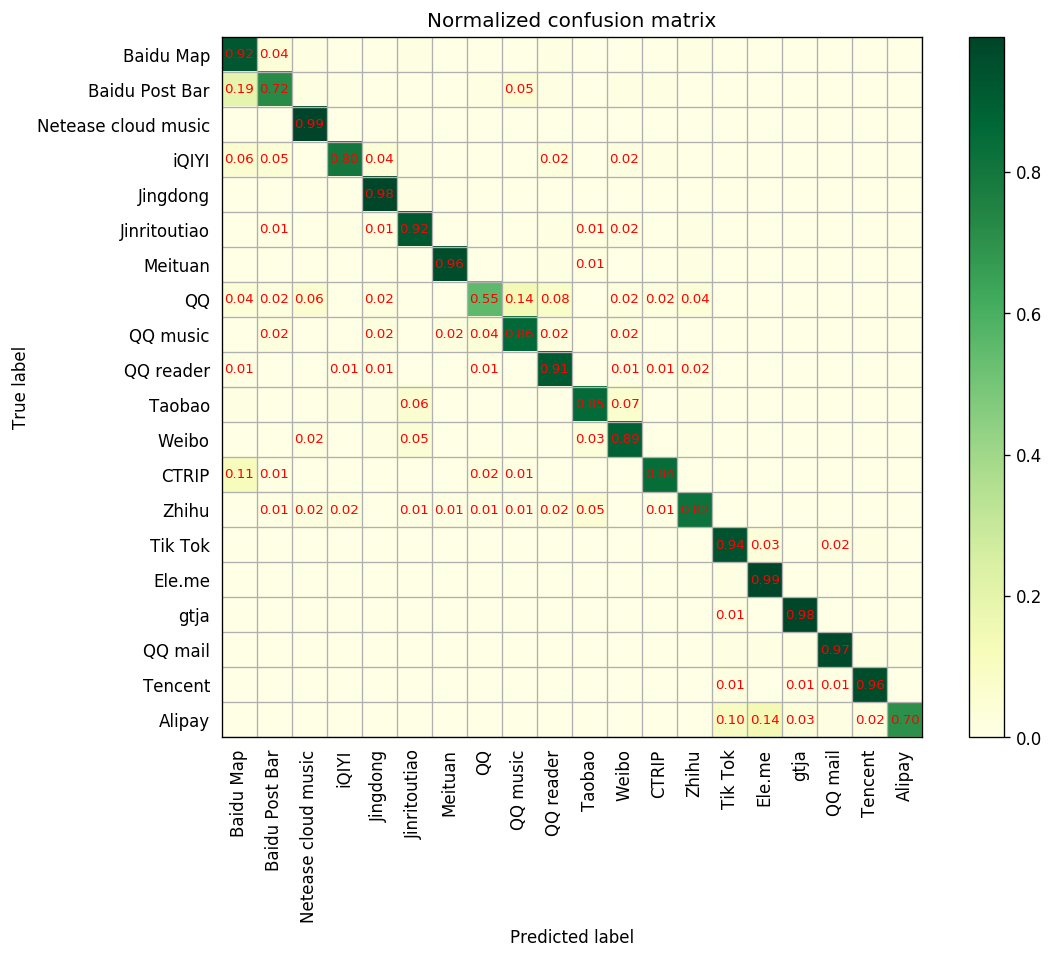
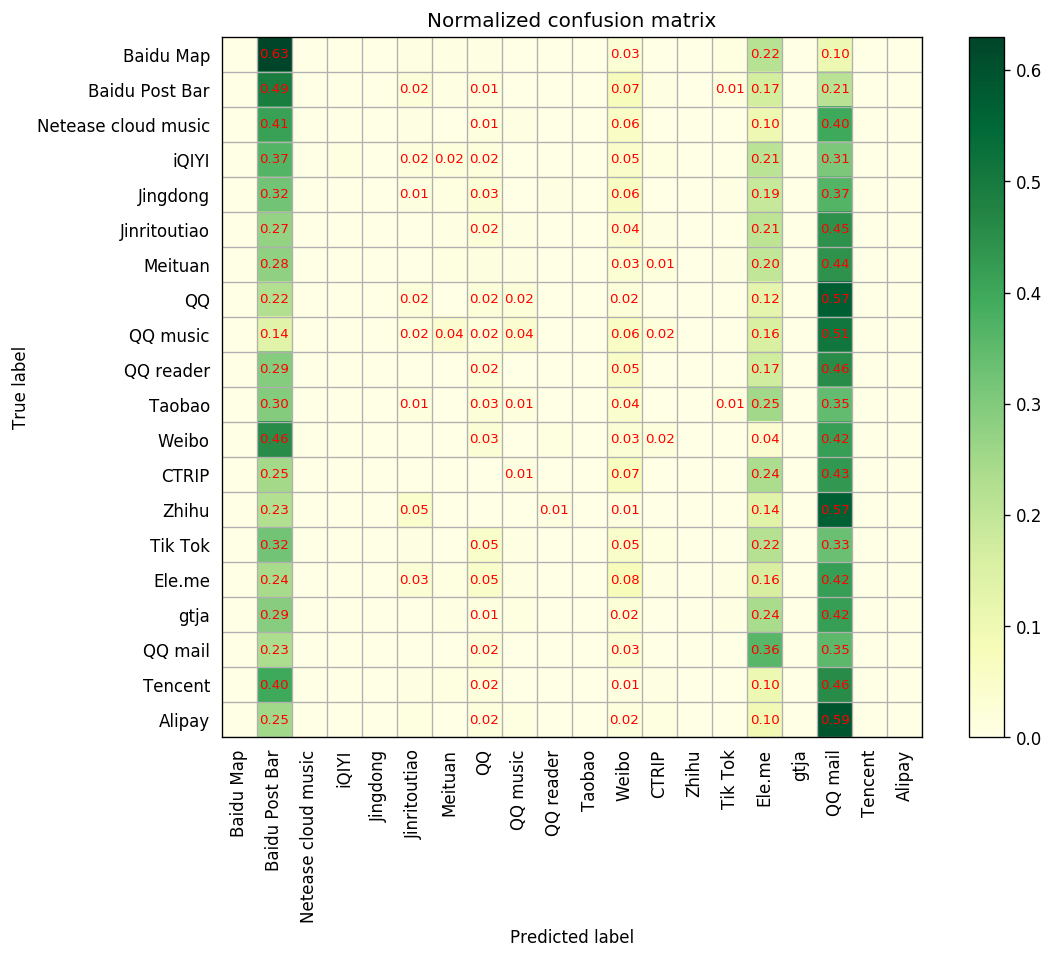
添加新的dense,修改长度为16,便于直观解释

diff --git a/wide_cnn_rnn/AIBMF_weight.py b/wide_cnn_rnn/AIBMF_weight.py
@@ -11,6 +11,8 @@ import tensorflow as tf
 from result import figures
 from sklearn.metrics import precision_score,recall_score,f1_score,accuracy_score
 import sys
+import numpy as np
+np.random.seed(2019)
 # 打印log
 tf.logging.set_verbosity(tf.logging.INFO)
 config = tf.ConfigProto(gpu_options=tf.GPUOptions(per_process_gpu_memory_fraction=0.5))
@@ -111,12 +113,15 @@ def model_fn(features, labels, mode, params):
     net1 = tf.contrib.layers.flatten(net1)
     net1 = tf.layers.dense(inputs=net1, name='layer_fc1',
                           units=64, activation=tf.nn.relu)
+    net1 = tf.layers.dense(inputs=net1, name="payload",units=16)
 
     x2 = features["recordTypes"]
     net2 = tf.reshape(x2,[-1,pkt_counts])
     # Embedding
     word_embeddings = tf.get_variable("word_embeddings",[257, 32])
     net2 = tf.nn.embedding_lookup(word_embeddings, net2)
+
+    # https://www.cnblogs.com/zyly/p/9029591.html
     # # Rnn
     # rnn_cell=tf.nn.rnn_cell.BasicRNNCell(16)
     # output, states = tf.nn.dynamic_rnn(rnn_cell, net2, dtype=tf.float32)
@@ -129,9 +134,10 @@ def model_fn(features, labels, mode, params):
 
     # net2 = tf.layers.dense(inputs=output[:,-1,:], name='layer_rnn_fc_1',
     #                       units=64, activation=tf.nn.relu)
-    net2 = tf.layers.dense(inputs=output[:,-1,:], name='layer_rnn_weight',
-                          units=64, activation=tf.nn.softmax)
-
+    net2 = tf.layers.dense(inputs=output[:,-1,:], name='layer_rnn_fc_1',
+                          units=64, activation=tf.nn.relu)
+    net2 = tf.layers.dense(inputs=net2,name='layer_rnn_weight',
+                           units=16,activation=tf.nn.softmax)
     net=tf.multiply(net1,net2)
 
     print(net.shape)
@@ -193,7 +199,7 @@ params = {"learning_rate": learning_rate}
 model = tf.estimator.Estimator(model_fn=model_fn,
                                config=trainingConfig,
                                params=params,
-                               model_dir="../../data/checkpoints/approximateAttention")
+                               model_dir="../../data/checkpoints/approximateAttention_weight")
 
 # 训练模型
 
@@ -208,7 +214,7 @@ print(result)
 # 模型预测
 predicts=model.predict(input_fn=test_input_fn,predict_keys=["y_pred_cls"])
 print(predicts)
-predicts=[p for p in predicts]
+predicts=[p['y_pred_cls'] for p in predicts]
 print(predicts)
 
 _,y=test_input_fn()
@@ -248,6 +254,7 @@ figures.plot_confusion_matrix(y_true, predicts,alphabet, "./%dx%d_"% (pkt_counts
 
 # 打印weight
 weights=model.predict(input_fn=test_input_fn,predict_keys=["layer_rnn_weight"])
+weights=[w['layer_rnn_weight'] for w in weights]
 for weight in weights[:10]:
     print(weight)
     print("\n")
